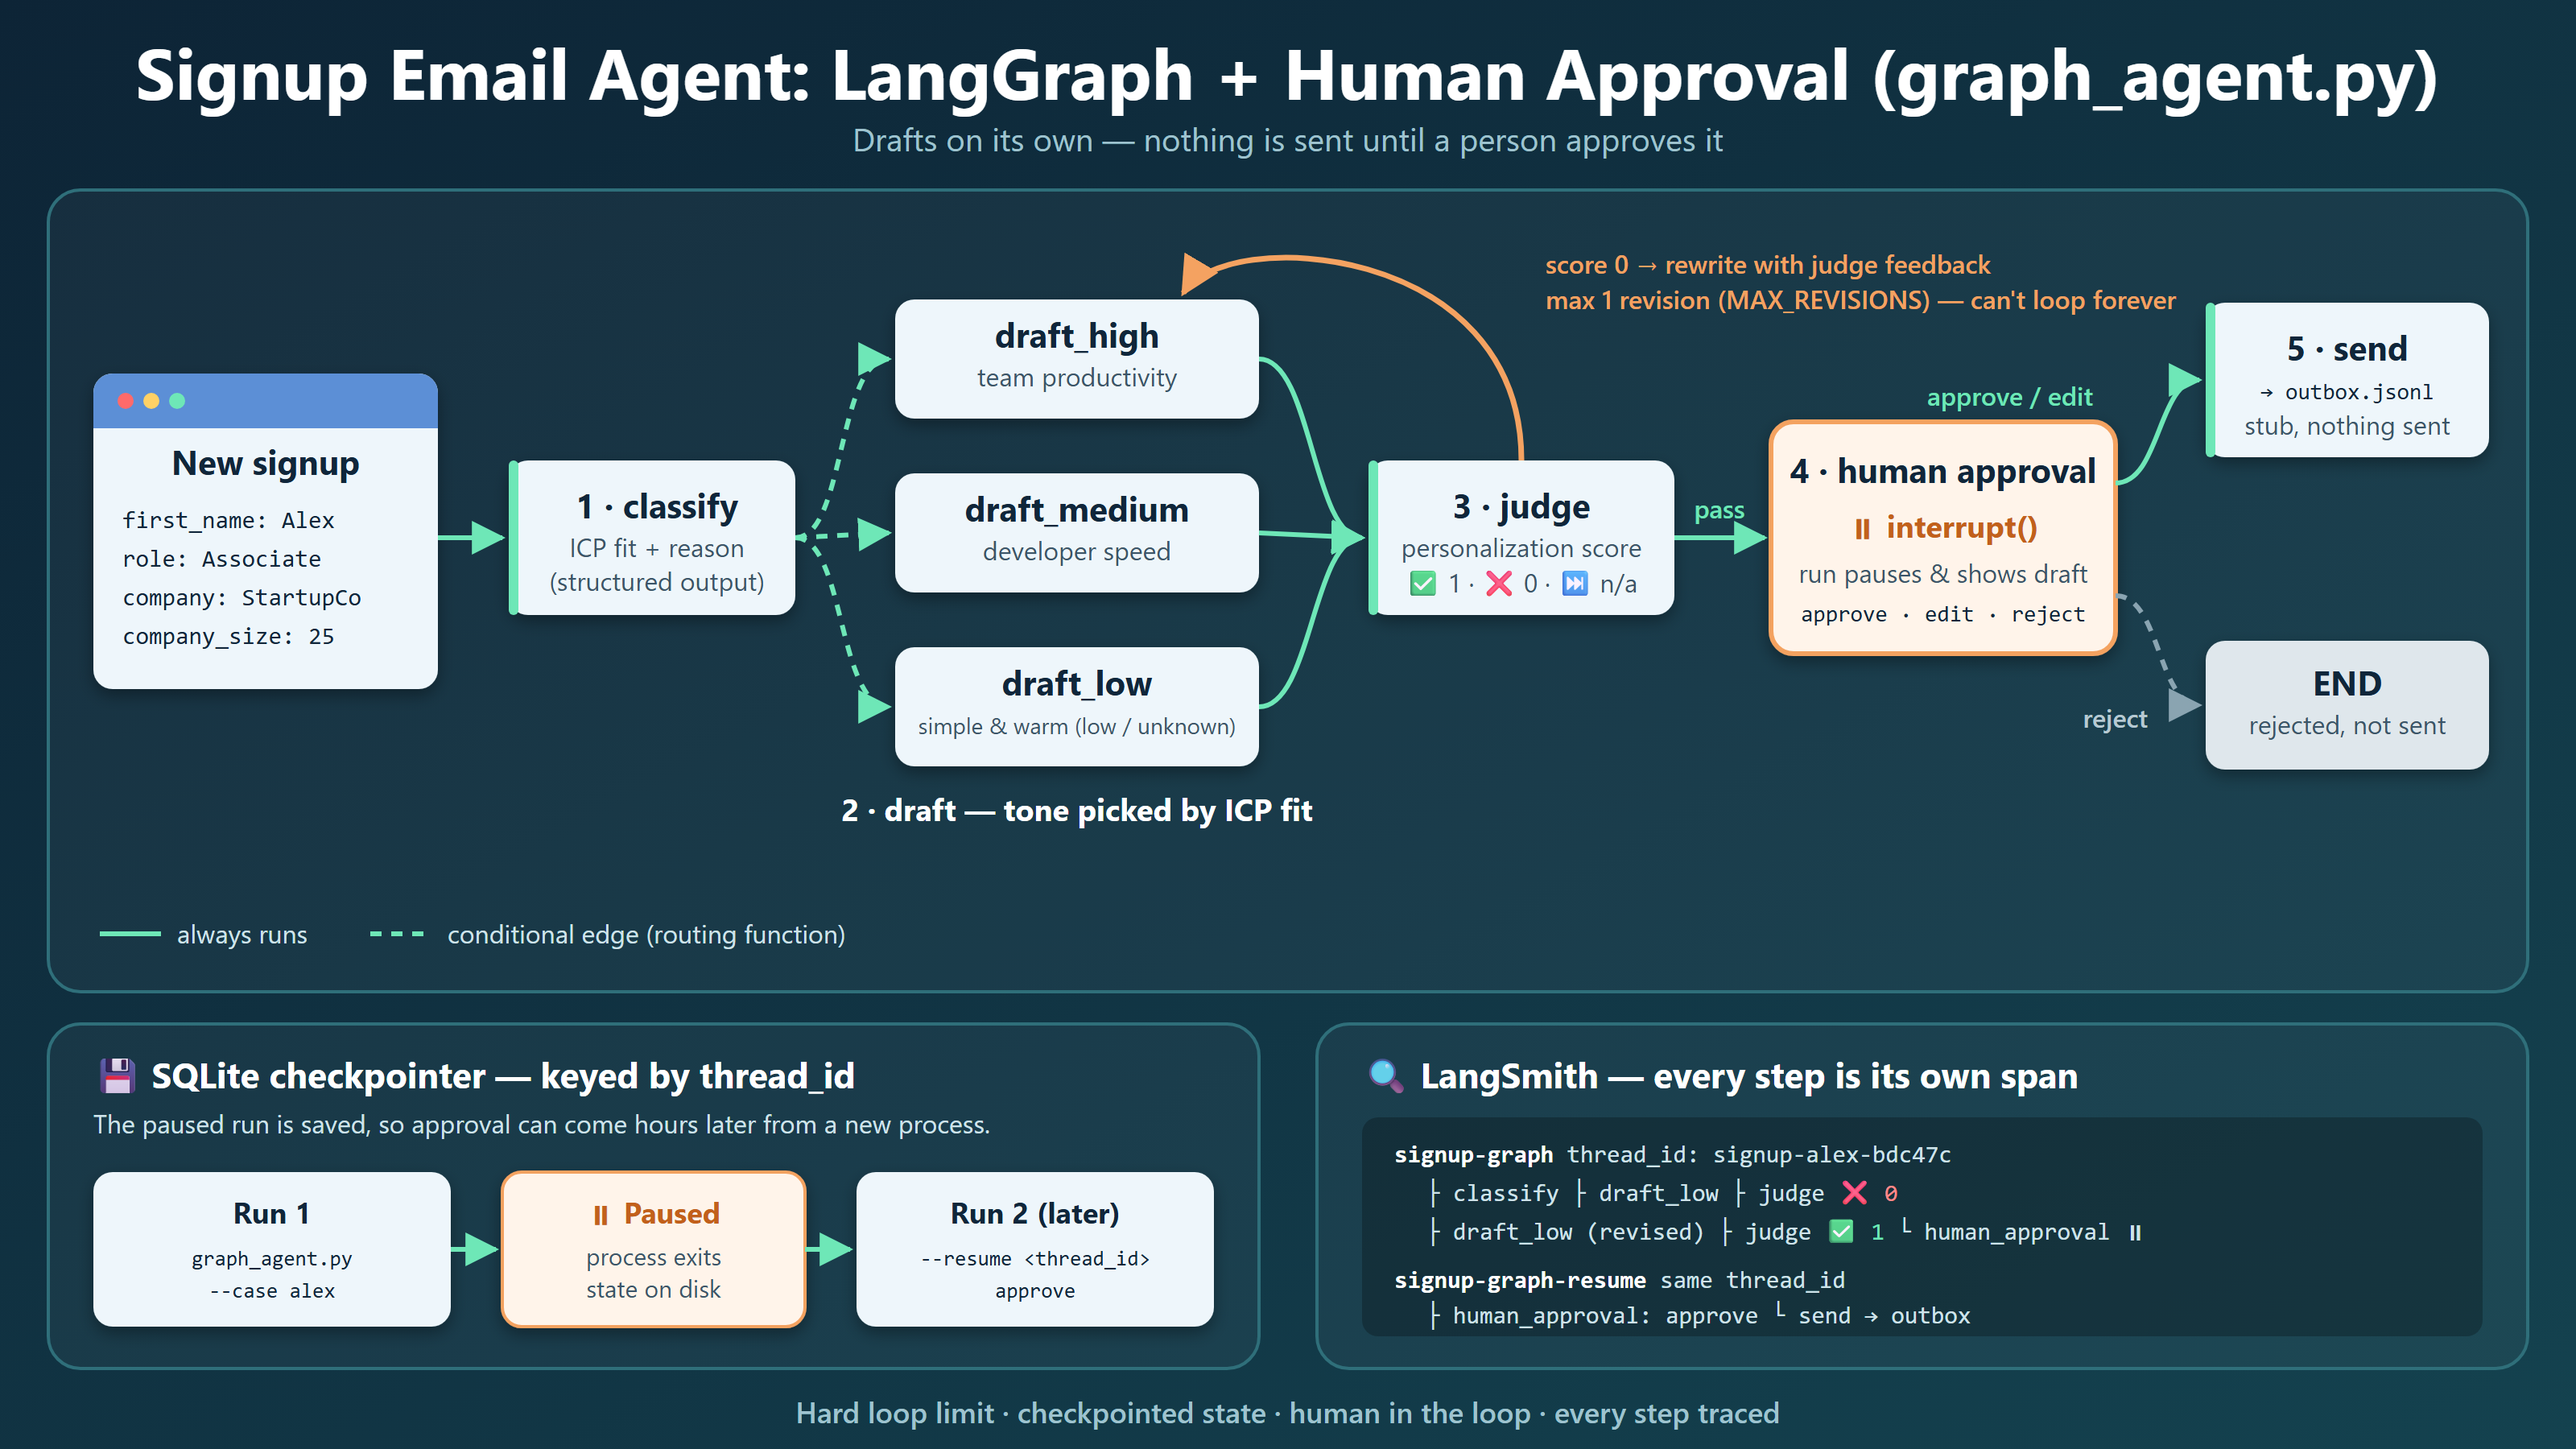
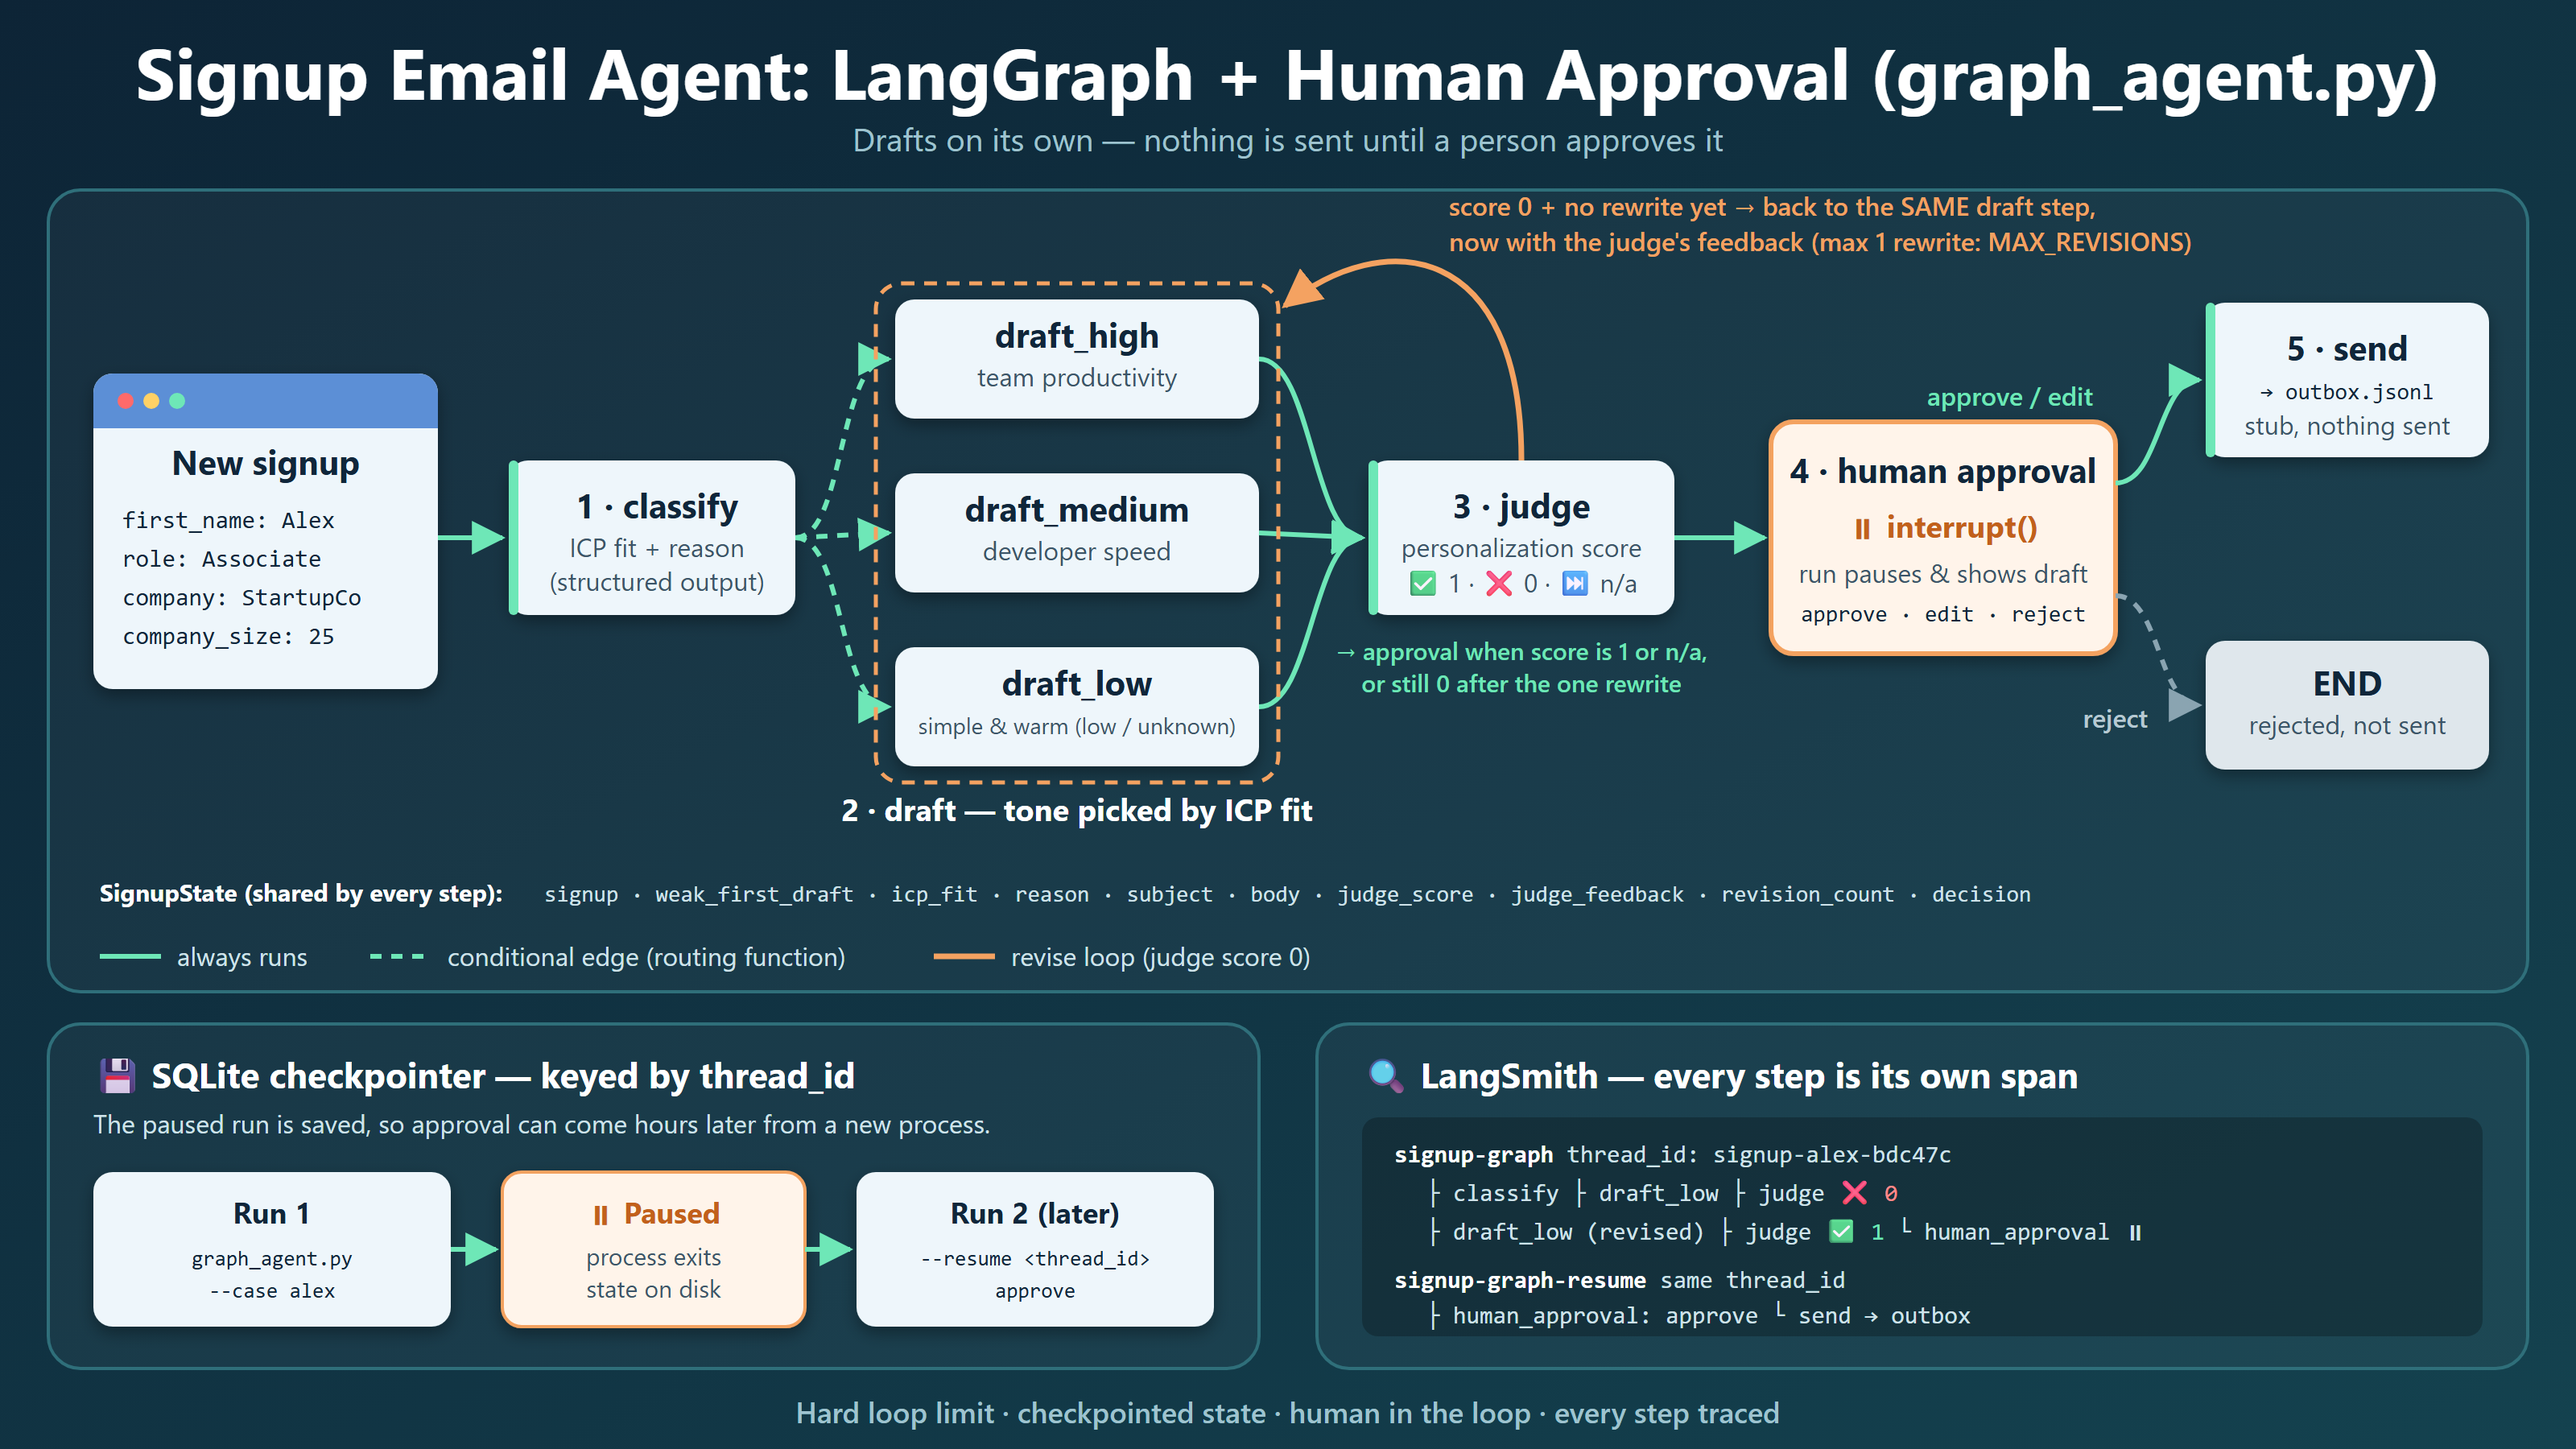
Show all judge outcomes and the state fields in the LangGraph diagram

diff --git a/README.md b/README.md
@@ -317,6 +317,23 @@ graph TD;
 | `human_approval` | `interrupt()` pauses the run and shows the draft |
 | `send` | Stub — appends the approved email to `outbox.jsonl`. Nothing is really sent |
 
+Every step reads and writes one shared state, `SignupState`:
+
+| Field | Type | Holds | Written by |
+|-------|------|-------|------------|
+| `signup` | `str` | Raw signup, one `key: value` per line | Caller, at start |
+| `weak_first_draft` | `bool` | Demo flag: force a generic first draft | Caller, at start |
+| `icp_fit` | `str` | `high`, `medium`, `low` or `unknown` | `classify` |
+| `reason` | `str` | One-sentence reason for the fit | `classify` |
+| `subject` | `str` | Email subject | `draft_*` |
+| `body` | `str` | Email text | `draft_*`, or the person on `edit` |
+| `judge_score` | `int \| str` | `1`, `0` or `"n/a"` | `judge` |
+| `judge_feedback` | `str` | Judge's reason, passed to the rewrite | `judge` |
+| `revision_count` | `int` | Rewrites so far (0 or 1) | `classify` sets 0; `draft_*` adds 1 on a rewrite |
+| `decision` | `str` | `approve`, `edit` or `reject` | `human_approval` |
+
+A judge score of 0 sends the draft back to the **same** draft step it came from (for Alex, `draft_low`), once. A score of 1 or n/a, or a 0 after the rewrite, goes to `human_approval`.
+
 Runs are checkpointed to SQLite (`checkpoints.sqlite`) by `thread_id`, so a paused run can be resumed later from a separate process. Every step is its own span in LangSmith, and the start and resume traces share the `thread_id`.
 
 ```powershell
